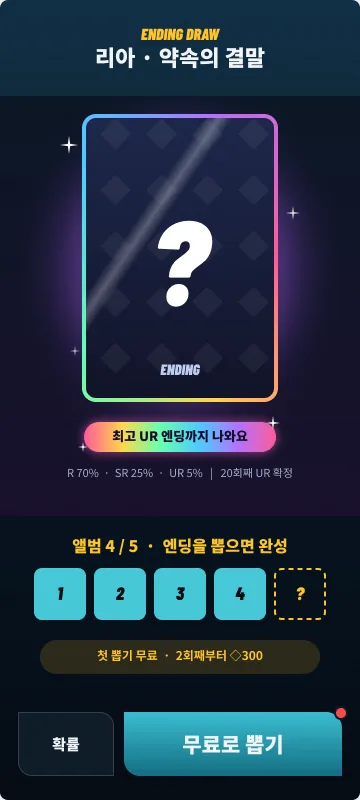
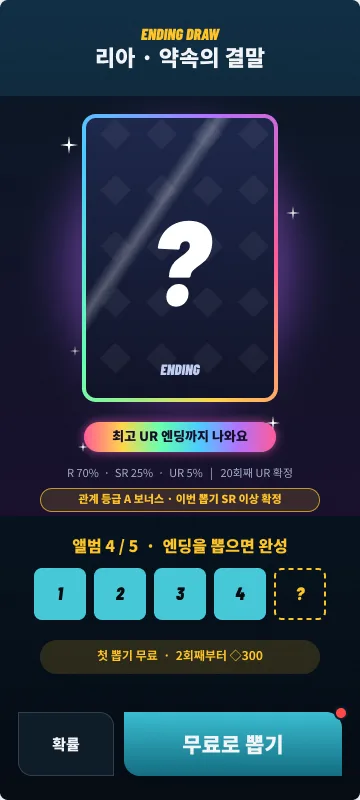
Proposal: gamification fixes (preference notes, relationship grade, route pass, mercy, dailies)
Claude-Session: https://claude.ai/code/session_01QC4LnGUoEV4hPAaGSGh6GF

Changed region(s): [[0.0917, 0.5938, 0.8861, 0.6562]]

diff --git a/territory-romance-f2p-proposal.html b/territory-romance-f2p-proposal.html
@@ -63,9 +63,17 @@ section{margin:72px 0}
 .tier.ur{background:linear-gradient(115deg,#ff5c9a,#ffd84d,#5cf2c9,#5cc8ff,#b27aff);border:0;color:#1a0f2e}
 .tier.ur span{color:#1a0f2e;font-weight:700}
 .money{grid-template-columns:1fr 1fr}
+.fixes{display:grid;grid-template-columns:1fr 1fr;gap:16px}
+.fix{display:flex;gap:16px;background:var(--card);border:1px solid var(--line);border-radius:16px;padding:14px;align-items:center}
+.fix img{width:104px;border-radius:10px;border:2px solid #1c2e42;flex:none}
+.fix .no{font-size:13px;color:var(--muted);text-decoration:line-through;text-decoration-color:var(--pink)}
+.fix h3{margin:4px 0 6px;font-size:19px}
+.fix p{margin:0;font-size:14px;color:#c9d4e2}
+.fix p b{color:var(--yellow)}
+.fix.noimg{padding-left:18px}
 footer{border-top:1px solid var(--line);padding-top:18px;color:var(--muted);font-size:13px}
-@media(max-width:860px){.duo{grid-template-columns:1fr}.hero{grid-template-columns:1fr}.nums{grid-template-columns:repeat(2,1fr)}.money,.scope{grid-template-columns:1fr}.grid3{grid-template-columns:repeat(3,minmax(0,1fr));gap:10px}}
-@media(max-width:520px){.duo .pair figure,.duo .pair.three figure{width:48%}.duo .pair.three{flex-wrap:wrap}.shot{flex-basis:160px}.grid3{grid-template-columns:1fr 1fr}.mcard img{width:90px}}
+@media(max-width:860px){.fixes{grid-template-columns:1fr}.duo{grid-template-columns:1fr}.hero{grid-template-columns:1fr}.nums{grid-template-columns:repeat(2,1fr)}.money,.scope{grid-template-columns:1fr}.grid3{grid-template-columns:repeat(3,minmax(0,1fr));gap:10px}}
+@media(max-width:520px){.fix img{width:84px}.duo .pair figure,.duo .pair.three figure{width:48%}.duo .pair.three{flex-wrap:wrap}.shot{flex-basis:160px}.grid3{grid-template-columns:1fr 1fr}.mcard img{width:90px}}
 </style></head><body><div class="wrap">
 
 <header class="hero">
@@ -103,7 +111,7 @@ footer{border-top:1px solid var(--line);padding-top:18px;color:var(--muted);font
   </div>
   <ul class="pts">
    <li>답장 1번 = <b>대화권 1장</b> · 하루 무료 5장</li>
-   <li>♥는 <b>고른 뒤 공개</b> — 좋음 +4 · 보통 +2 · 나쁨 0</li>
+   <li>♥는 <b>고른 뒤 공개</b> — 단, 알아낸 취향은 <b>태그</b>로 보인다</li>
    <li>사진 2 <b>♥15</b> · 사진 3 <b>♥45</b> · 사진 4 <b>♥70</b> · 엔딩 <b>♥100</b></li>
    <li>♥ 2 모자랄 때 → 자정까지 기다리거나 <b>대화권 5장 ◇100</b></li>
   </ul>
@@ -136,6 +144,19 @@ footer{border-top:1px solid var(--line);padding-top:18px;color:var(--muted);font
  </div>
 </section>
 
+<section id="fixes">
+ <h2>불만 포인트는 게임으로 푼다</h2>
+ <p class="sub">돈 내는 이유를 '운이 나빠서'가 아니라 '더 빨리, 더 높이'로 바꾼다.</p>
+ <div class="fixes">
+  <div class="fix"><img src="japan-project/proposal-screens/n1-note.webp" alt="" loading="lazy"><div><div class="no">답을 운으로 찍는다</div><h3>취향 노트</h3><p>알아낸 취향이 선택지에 <b>태그</b>로 뜬다. 맞히는 건 실력.</p></div></div>
+  <div class="fix"><img src="japan-project/proposal-screens/05-talk.webp" alt="" loading="lazy"><div><div class="no">틀리면 그냥 손해</div><h3>실패도 수집</h3><p>나쁜 답 = 싫어하는 취향 기록. <b>되돌리기 하루 1회 무료</b>, 3연속 정답 콤보 ♥+2.</p></div></div>
+  <div class="fix"><img src="japan-project/proposal-screens/p1-pass.webp" alt="" loading="lazy"><div><div class="no">돈을 세 번 묻는다</div><h3>루트 패스 ¥980</h3><p>대화권 매일 +3 · 이어하기 3 · 다시 뽑기 3을 <b>한 번에</b>. 구매 제안은 세션당 1회.</p></div></div>
+  <div class="fix"><img src="japan-project/proposal-screens/07-ending.webp" alt="" loading="lazy"><div><div class="no">최고 엔딩이 순전히 운</div><h3>관계 등급 보너스</h3><p>A = 첫 뽑기 <b>SR 이상 확정</b> · S = UR 확률 3배. 잘한 만큼 높게.</p></div></div>
+  <div class="fix noimg"><div><div class="no">퍼즐에서 막혀 이탈</div><h3>도움 모드</h3><p>2연속 실패 → 다음 판 <b>시작 영역 +10%</b>. 무료.</p></div></div>
+  <div class="fix noimg"><div><div class="no">무과금은 목표가 없다</div><h3>일일 미션 ◇40</h3><p>퍼즐 1 · 대화 1 · 앨범 보기. 캐릭터 한 명 끝낼 때쯤 <b>다시 뽑기 1회분</b>.</p></div></div>
+ </div>
+</section>
+
 <section id="lobby">
  <h2>목록만 봐도 다음 할 일이 보인다</h2>
  <p class="sub">보유 캐릭터는 엔딩까지 남은 것, 잠긴 캐릭터는 흐리게 움직이게.</p>
@@ -159,24 +180,25 @@ footer{border-top:1px solid var(--line);padding-top:18px;color:var(--muted);font
 </section>
 
 <section id="money">
- <h2>돈 버는 곳은 네 군데</h2>
+ <h2>돈 버는 곳은 다섯 군데</h2>
  <p class="sub">기다리기 싫을 때, 거의 다 열었을 때, 말실수했을 때, 더 높은 엔딩이 보일 때.</p>
  <div class="money">
   <div class="mcard"><img src="japan-project/proposal-screens/l2-locked.webp" alt="" loading="lazy"><div><h3>캐릭터 바로 열기</h3><div class="price">◇ 1,000</div><p>접근만 앞당긴다. 사진·친밀도는 0부터.</p></div></div>
   <div class="mcard"><img src="japan-project/proposal-screens/03-timeup.webp" alt="" loading="lazy"><div><h3>이어하기 · 부스터</h3><div class="price">◇ 100~150</div><p>사진 직전 실패에서 +30초. 스타터 팩 ¥980.</p></div></div>
   <div class="mcard"><img src="japan-project/proposal-screens/06-bond.webp" alt="" loading="lazy"><div><h3>대화권</h3><div class="price">5장 ◇ 100</div><p>♥가 모자랄 때, 나쁜 답을 되돌릴 때.</p></div></div>
   <div class="mcard"><img src="japan-project/proposal-screens/e1-repull.webp" alt="" loading="lazy"><div><h3>엔딩 다시 뽑기</h3><div class="price">◇ 300</div><p>R 70 · SR 25 · UR 5%. 20회째 UR 확정.</p></div></div>
+  <div class="mcard"><img src="japan-project/proposal-screens/p1-pass.webp" alt="" loading="lazy"><div><h3>캐릭터 루트 패스</h3><div class="price">¥ 980</div><p>위 세 가지를 한 번에. 캐릭터당 1회.</p></div></div>
  </div>
- <div class="rule">사진 · 친밀도는 팔지 않는다. 기본 엔딩은 무료 1회로 보장한다.</div>
+ <div class="rule">사진 · 친밀도는 팔지 않는다. 기본 엔딩은 무료 1회로 보장한다. 구매 제안은 세션당 한 번.</div>
 </section>
 
 <section id="scope">
  <h2>먼저 만들 것</h2>
  <p class="sub">한 명을 끝까지 — 그걸로 재미를 확인한다.</p>
  <div class="scope">
-  <div><b>캐릭터 1명 완성</b><span>스탠딩 + 사진 4 + 엔딩 R/SR/UR</span></div>
+  <div><b>캐릭터 1명 완성</b><span>스탠딩 + 사진 4 + 엔딩 1구도 (R/SR/UR 차분)</span></div>
   <div><b>퍼즐 10판</b><span>방해물 1종 · 부스터 2종</span></div>
-  <div><b>대화 8회 + 엔딩 뽑기</b><span>선택지 3개 · 되돌리기 · UR 홀로 카드 1장</span></div>
+  <div><b>대화 8회 + 취향 노트 + 엔딩 뽑기</b><span>취향 6개 · 관계 등급 · UR 홀로 카드 1장</span></div>
  </div>
 </section>
 
